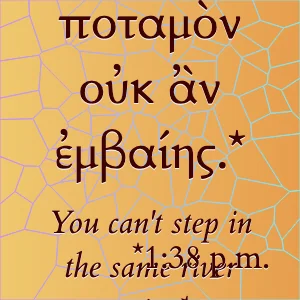
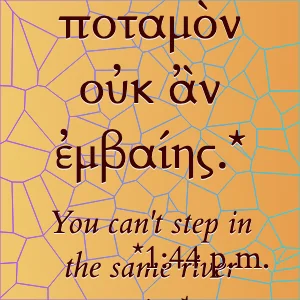
m

diff --git a/src/pages/2026/26-08/26-08-17/Clock.tsx b/src/pages/2026/26-08/26-08-17/Clock.tsx
@@ -133,8 +133,8 @@ const ClockComponent: React.FC = () => {
 
       // Create gradient stroke
       const gradient = context.createLinearGradient(0, 0, width, 0);
-      gradient.addColorStop('0', '#C792ED');
-      gradient.addColorStop('1', '#8AE2E6');
+      gradient.addColorStop('0', '#AE54EF');
+      gradient.addColorStop('1', '#40CCD4');
 
       for (const cell of voronoi.cellPolygons()) {
         drawCell(cell);
